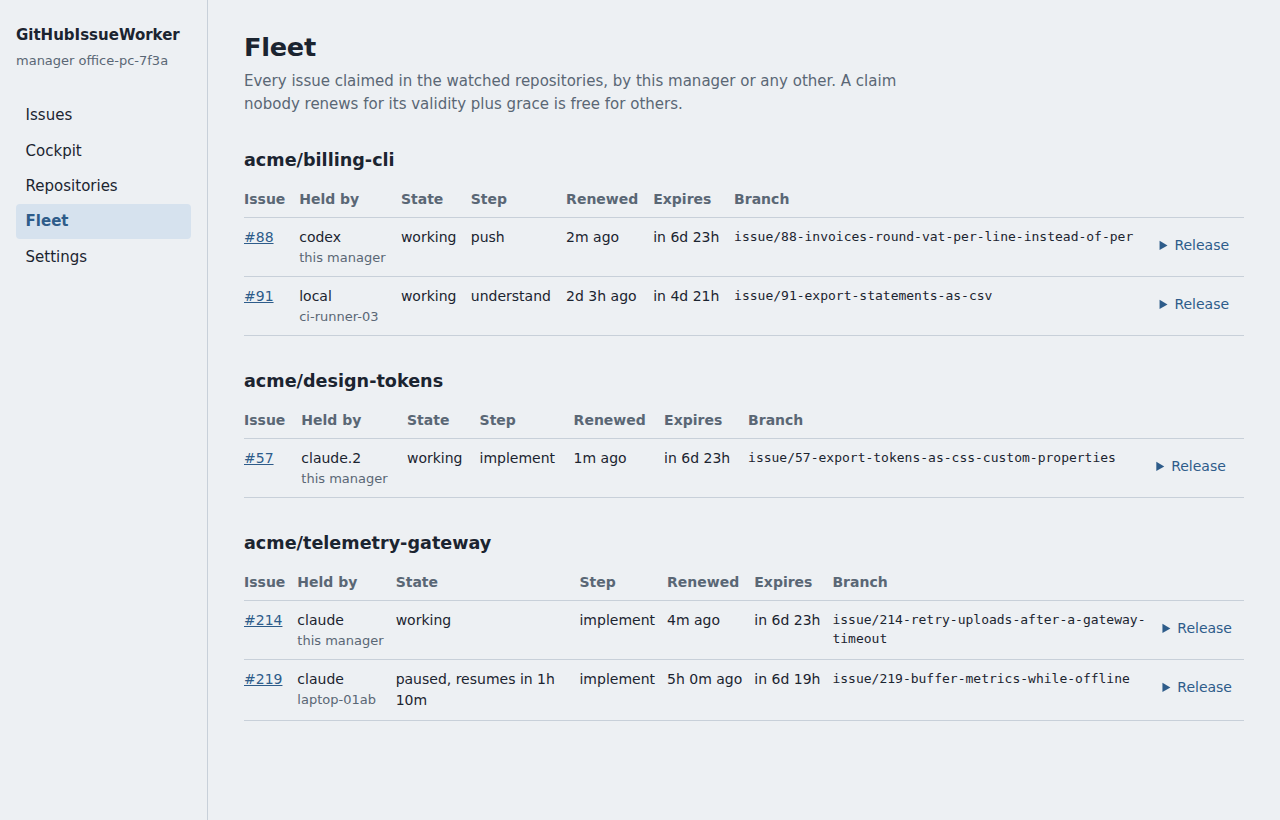
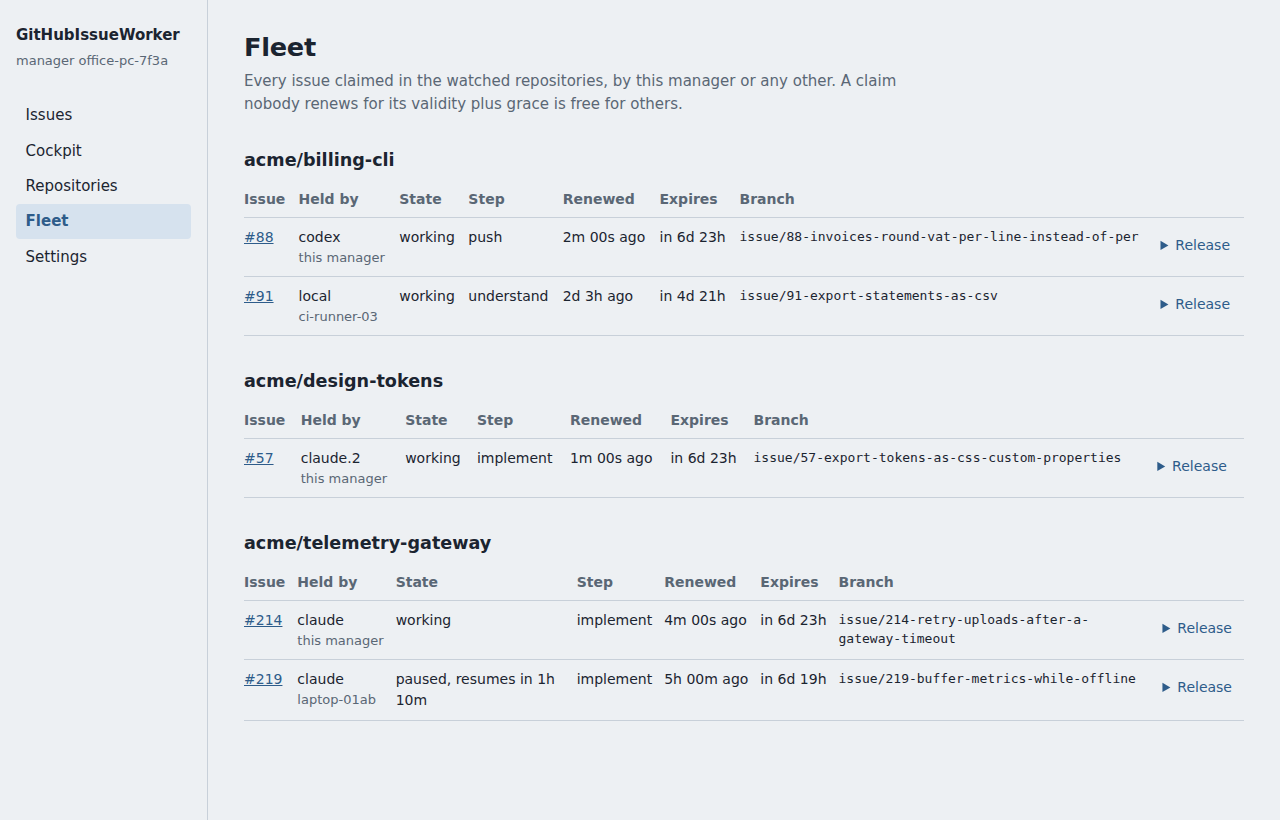
+ ticking times and background refresh (#34)
+ times count every second against the manager clock
+ cockpit status line with a running clock
+ background refresh every 15 s and on change

diff --git a/src/github_issue_worker/ui/pages.py b/src/github_issue_worker/ui/pages.py
@@ -181,6 +181,11 @@ body.deck nav a[aria-current="page"] { background: linear-gradient(90deg, #1d4f8
 body.deck h1 { font-size: clamp(1.8rem, 2.6vw, 2.6rem); font-weight: 250; letter-spacing: .02em;
   background: linear-gradient(90deg, #ffffff, #8cc6ff 60%, #b39bff); -webkit-background-clip: text;
   background-clip: text; color: transparent; }
+.status { display: flex; align-items: center; gap: .5rem; margin: -.4rem 0 .9rem; color: var(--muted);
+  font-size: 13px; font-variant-numeric: tabular-nums; }
+.status .dot { width: .55rem; height: .55rem; border-radius: 50%; background: #3ddc97;
+  box-shadow: 0 0 10px #3ddc97; }
+.status time { color: var(--ink); }
 .readouts { display: grid; gap: .9rem;
   grid-template-columns: repeat(auto-fit, minmax(min(100%, 12rem), 1fr)); }
 .readout, .panel { position: relative; min-width: 0; border-radius: 14px;
@@ -361,6 +366,7 @@ svg.chart { display: block; width: 100%; height: auto; overflow: visible; }
   .square:not(.free) { animation: glow 2.6s ease-in-out infinite; }
   @keyframes glow { 50% { box-shadow: 0 0 22px currentColor, 0 0 4px currentColor; } }
   .panel h2::before { animation: blink 3s ease-in-out infinite; }
+  .status .dot { animation: blink 1.6s ease-in-out infinite; }
   @keyframes blink { 50% { opacity: .35; } }
 }
 @media (prefers-reduced-motion: no-preference) {
@@ -392,15 +398,62 @@ LIVE = """
 <script>
 (() => {
   const live = document.getElementById("live");
-  if (!live || !window.EventSource) return;
-  const events = new EventSource("/events");
-  events.onmessage = async () => {
-    if (live.contains(document.activeElement)) return;
-    const query = new URLSearchParams(location.search);
-    query.set("fragment", "1");
-    const response = await fetch(location.pathname + "?" + query);
-    if (response.ok) live.innerHTML = await response.text();
+  if (!live) return;
+  // Times tick against the manager's clock, carried by data-now in every fragment.
+  let offset = 0;
+  const sync = () => {
+    const marks = live.querySelectorAll("[data-now]");
+    if (marks.length) offset = Date.parse(marks[marks.length - 1].dataset.now) - Date.now();
   };
+  const pad = (value) => String(value).padStart(2, "0");
+  const format = (ms) => {
+    const total = Math.max(Math.floor(ms / 1000), 0);
+    const d = Math.floor(total / 86400), h = Math.floor(total / 3600) % 24;
+    const m = Math.floor(total / 60) % 60, s = total % 60;
+    if (d) return `${d}d ${h}h`;
+    if (h) return `${h}h ${pad(m)}m`;
+    if (m) return `${m}m ${pad(s)}s`;
+    return `${s}s`;
+  };
+  const tick = () => {
+    const now = Date.now() + offset;
+    for (const node of live.querySelectorAll("[data-since]"))
+      node.textContent = format(now - Date.parse(node.dataset.since));
+    for (const node of live.querySelectorAll("[data-until]")) {
+      const left = Date.parse(node.dataset.until) - now;
+      node.textContent = left > 0 ? format(left) : "a moment";
+    }
+    for (const node of live.querySelectorAll("[data-clock]"))
+      node.textContent = new Date(now).toISOString().slice(11, 19);
+  };
+  sync();
+  tick();
+  setInterval(tick, 1000);
+  // Refresh in the background: at once when the manager reports a change, and every 15 s anyway.
+  let busy = false;
+  const refresh = async () => {
+    if (busy || document.hidden || live.contains(document.activeElement)) return;
+    busy = true;
+    try {
+      const open = [...live.querySelectorAll("details")].map((node) => node.open);
+      const query = new URLSearchParams(location.search);
+      query.set("fragment", "1");
+      const response = await fetch(location.pathname + "?" + query);
+      if (!response.ok) return;
+      live.innerHTML = await response.text();
+      const details = live.querySelectorAll("details");
+      if (details.length === open.length) details.forEach((node, i) => (node.open = open[i]));
+      sync();
+      tick();
+    } catch (error) {
+      // the manager is restarting; the next attempt picks it up again
+    } finally {
+      busy = false;
+    }
+  };
+  if (window.EventSource) new EventSource("/events").onmessage = refresh;
+  setInterval(refresh, 15000);
+  document.addEventListener("visibilitychange", () => document.hidden || refresh());
 })();
 </script>
 """
@@ -487,6 +540,25 @@ def span(delta: timedelta) -> str:
     if hours:
         return f"{hours}h {minutes}m"
     return f"{minutes}m"
+
+
+def ticking(moment: datetime, now: datetime) -> str:
+    """A time since or until ``moment`` that the page's script keeps counting, second by second."""
+    stamp = moment.isoformat()
+    if moment > now:
+        return f'<time datetime="{stamp}" data-until="{stamp}">{span(moment - now)}</time>'
+    return f'<time datetime="{stamp}" data-since="{stamp}">{span(now - moment)}</time>'
+
+
+def when_live(moment: datetime, now: datetime) -> str:
+    future = moment > now
+    relative = f"in {ticking(moment, now)}" if future else f"{ticking(moment, now)} ago"
+    return f"{moment:%Y-%m-%d %H:%M} UTC ({relative})"
+
+
+def _clock(now: datetime) -> str:
+    """The manager's time when the fragment was made, for the ticking times in it."""
+    return f'<i hidden data-now="{now.isoformat()}"></i>'
 
 
 def when(moment: datetime, now: datetime) -> str:
@@ -580,7 +652,7 @@ def _instance(
                 f"{e(worker.branch)}</button></form>"
             )
         if worker.since:
-            facts.append(f"for {span(now - worker.since)}")
+            facts.append(f"for {ticking(worker.since, now)}")
         known = issues.get((worker.repository, worker.issue))
         issue = f"<span class=repo>{e(worker.repository)}</span> " + _issue_link(
             worker.repository, worker.issue, worker.issue_title, known.body if known else ""
@@ -596,7 +668,7 @@ def _instance(
     if worker.state == "limited" and worker.limited_until:
         return _free(
             f'<span class="flag limited">Usage limit</span> '
-            f"<span class=quiet>resets {when(worker.limited_until, now)}</span>",
+            f"<span class=quiet>resets {when_live(worker.limited_until, now)}</span>",
             label,
         )
     if worker.state == "unavailable":
@@ -661,11 +733,12 @@ def _remote_row(
             + (f", {e(known.model)}" if known and known.model else ""),
             f'<a href="https://github.com/{e(claim.repository)}/tree/{e(claim.branch)}">'
             f"{e(claim.branch)}</a>",
-            f"renewed {span(now - claim.renewed)} ago",
+            f"renewed {ticking(claim.renewed, now)} ago",
         ]
         if claim.paused_until:
             facts.insert(
-                0, f'<span class="flag paused">Paused</span> until {when(claim.paused_until, now)}'
+                0,
+                f'<span class="flag paused">Paused</span> until {when_live(claim.paused_until, now)}',
             )
         rows.append(_run(slots.get(claim.repository, 0), issue, _track(claim.step), facts, manager))
     managers = len({claim.holder.partition("/")[0] for claim in claims})
@@ -997,7 +1070,12 @@ def cockpit_fragment(
     snapshot: Snapshot, history: list[RunRecord], view: CockpitView = DEFAULT_VIEW
 ) -> str:
     return (
-        _readouts(history, snapshot.now)
+        _clock(snapshot.now)
+        + "<p class=status><i class=dot aria-hidden=true></i>Live: updated "
+        + ticking(snapshot.now, snapshot.now)
+        + " ago, manager clock <time data-clock>"
+        + f"{snapshot.now:%H:%M:%S}</time> UTC</p>"
+        + _readouts(history, snapshot.now)
         + "<div class=deck-grid>"
         + _crew(snapshot)
         + _flight_log(snapshot, history)
@@ -1091,7 +1169,7 @@ def _override_form(repository: RepositorySettings, defaults: DefaultsSettings) -
 
 def _claim_row(claim: ClaimView, now: datetime) -> str:
     state = (
-        f'<span title="{e(when(claim.paused_until, now))}">paused, resumes in {span(claim.paused_until - now)}</span>'
+        f'<span title="{e(when(claim.paused_until, now))}">paused, resumes in {ticking(claim.paused_until, now)}</span>'
         if claim.paused_until
         else e(claim.state)
     )
@@ -1117,14 +1195,18 @@ def _claim_row(claim: ClaimView, now: datetime) -> str:
         f'<tr><td><a href="https://github.com/{e(claim.repository)}/issues/{claim.issue}">'
         f"#{claim.issue}</a></td><td>{holder}</td><td>{state}</td>"
         f'<td>{e(claim.step)}</td><td class=nowrap title="{claim.renewed:%Y-%m-%d %H:%M} UTC">'
-        f"{span(now - claim.renewed)} ago</td>"
-        f'<td class=nowrap title="{claim.expires:%Y-%m-%d %H:%M} UTC">in {span(claim.expires - now)}</td>'
+        f"{ticking(claim.renewed, now)} ago</td>"
+        f'<td class=nowrap title="{claim.expires:%Y-%m-%d %H:%M} UTC">in {ticking(claim.expires, now)}</td>'
         f"<td class=mono>{e(claim.branch)}</td>"
         f"<td>{release}</td></tr>"
     )
 
 
 def fleet_fragment(snapshot: Snapshot) -> str:
+    return _clock(snapshot.now) + _fleet_fragment(snapshot)
+
+
+def _fleet_fragment(snapshot: Snapshot) -> str:
     if not snapshot.claims:
         return "<p class=empty>No issue is claimed right now, by this or any other manager.</p>"
     parts = []
@@ -1430,7 +1512,7 @@ def _issue_row(issue: IssueView, workers: Mapping[str, WorkerView], now: datetim
         )
     else:
         who = "<span class=quiet>nobody</span>"
-    since = f" for {span(now - issue.since)}" if issue.since else ""
+    since = f" for {ticking(issue.since, now)}" if issue.since else ""
     step = f"{e(issue.step)}{since}" if issue.step else ""
     worker = workers.get(issue.worker or "") if issue.local else None
     if worker is not None:
@@ -1446,6 +1528,10 @@ def _issue_row(issue: IssueView, workers: Mapping[str, WorkerView], now: datetim
 
 
 def issues_fragment(snapshot: Snapshot) -> str:
+    return _clock(snapshot.now) + _issues_fragment(snapshot)
+
+
+def _issues_fragment(snapshot: Snapshot) -> str:
     if not snapshot.issues:
         return (
             "<p class=empty>No open issue in the watched repositories. "

diff --git a/tests/ui/test_cockpit_browser.py b/tests/ui/test_cockpit_browser.py
@@ -40,3 +40,19 @@ def test_a_switch_redraws_only_its_own_chart(browser: Browser, server: UiServer)
     assert page.evaluate("window.untouched") is True
     assert page.url.endswith("?by=agent&days=30&time=model")
     assert "Claude Opus 5.5" in page.inner_text("#time")  # the other chart kept its split
+
+
+def test_times_tick_and_the_page_refreshes_in_the_background(
+    browser: Browser, server: UiServer
+) -> None:
+    page = browser.new_page(reduced_motion="reduce")
+    page.goto(server.url + "/workers")
+    clock = page.inner_text("[data-clock]")
+    page.wait_for_function(f"document.querySelector('[data-clock]').textContent !== '{clock}'")
+    page.evaluate(
+        "window.untouched = true; window.fetched = 0; const f = window.fetch;"
+        "window.fetch = (...a) => { window.fetched++; return f(...a); }"
+    )
+    page.evaluate("document.dispatchEvent(new Event('visibilitychange'))")
+    page.wait_for_function("window.fetched > 0")
+    assert page.evaluate("window.untouched") is True  # refreshed in place, not reloaded

diff --git a/tests/ui/test_app.py b/tests/ui/test_app.py
@@ -435,3 +435,14 @@ def test_no_remote_row_without_issues_held_elsewhere(backend: DemoBackend) -> No
     snapshot = backend.snapshot()
     alone = replace(snapshot, claims=tuple(c for c in snapshot.claims if c.mine))
     assert 'aria-label="Remote"' not in pages.cockpit_fragment(alone, [])
+
+
+def test_live_fragments_carry_the_managers_clock_and_ticking_times(client: TestClient) -> None:
+    for path in ("/workers?fragment=1", "/?fragment=1", "/fleet?fragment=1"):
+        html = client.get(path).text
+        assert 'data-now="2026-10-30T14:20:00+00:00"' in html, path
+        assert "data-since=" in html, path
+    cockpit = client.get("/workers").text
+    assert 'data-since="2026-10-30T13:57:00+00:00">23m<' in cockpit  # claude on #214 for 23m
+    assert "data-until=" in cockpit  # antigravity's usage limit counts down
+    assert "<time data-clock>" in cockpit
